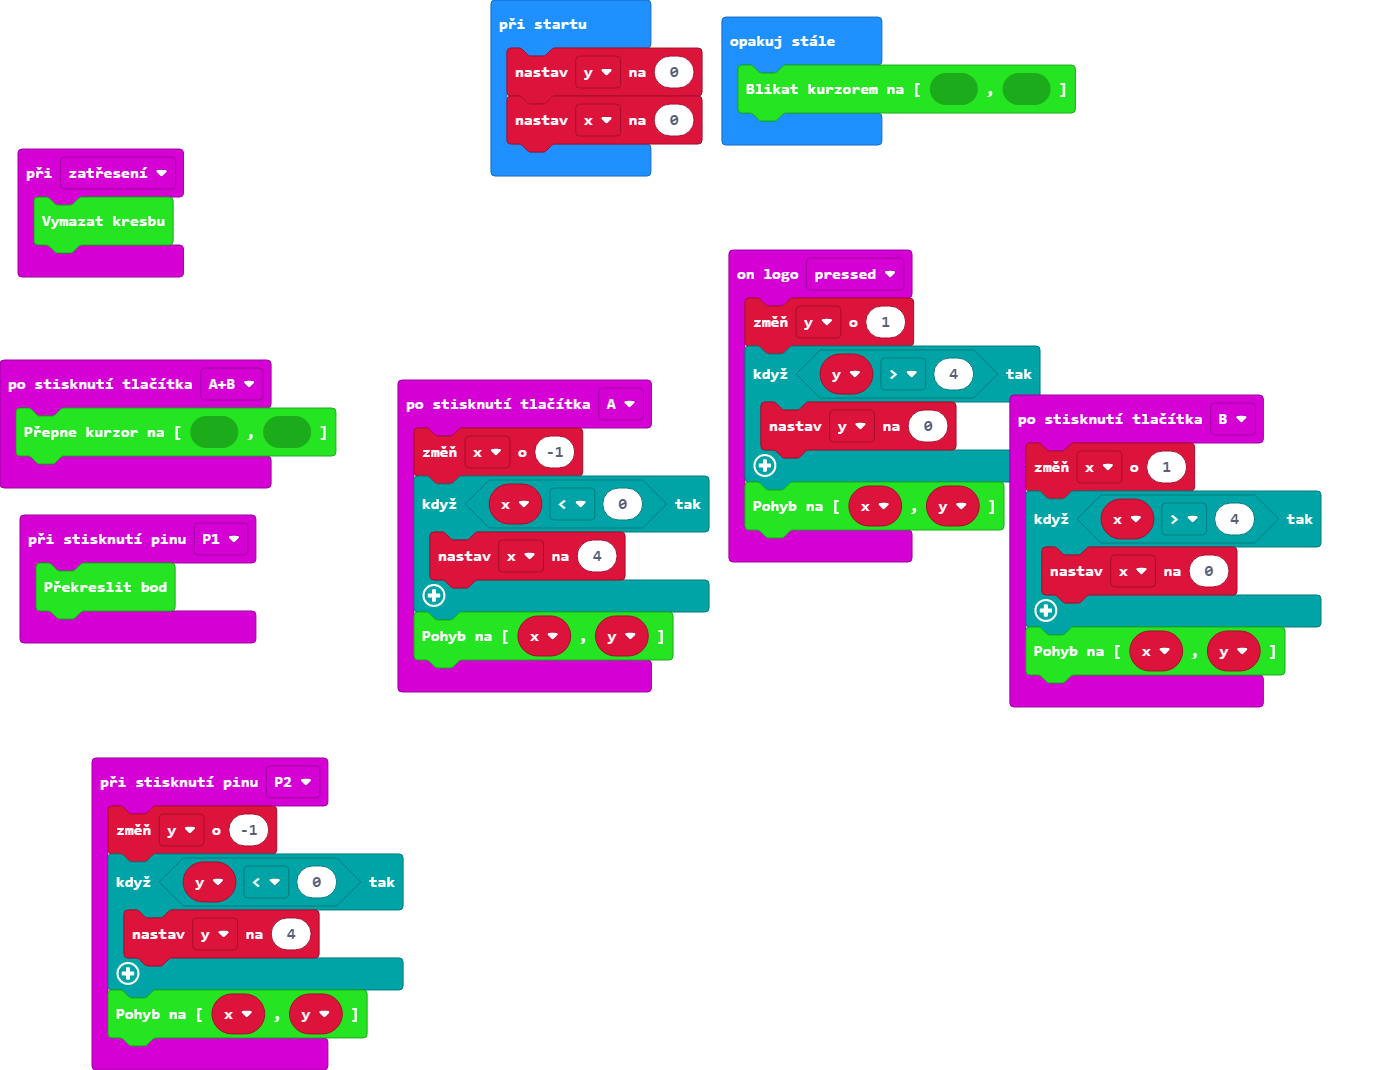
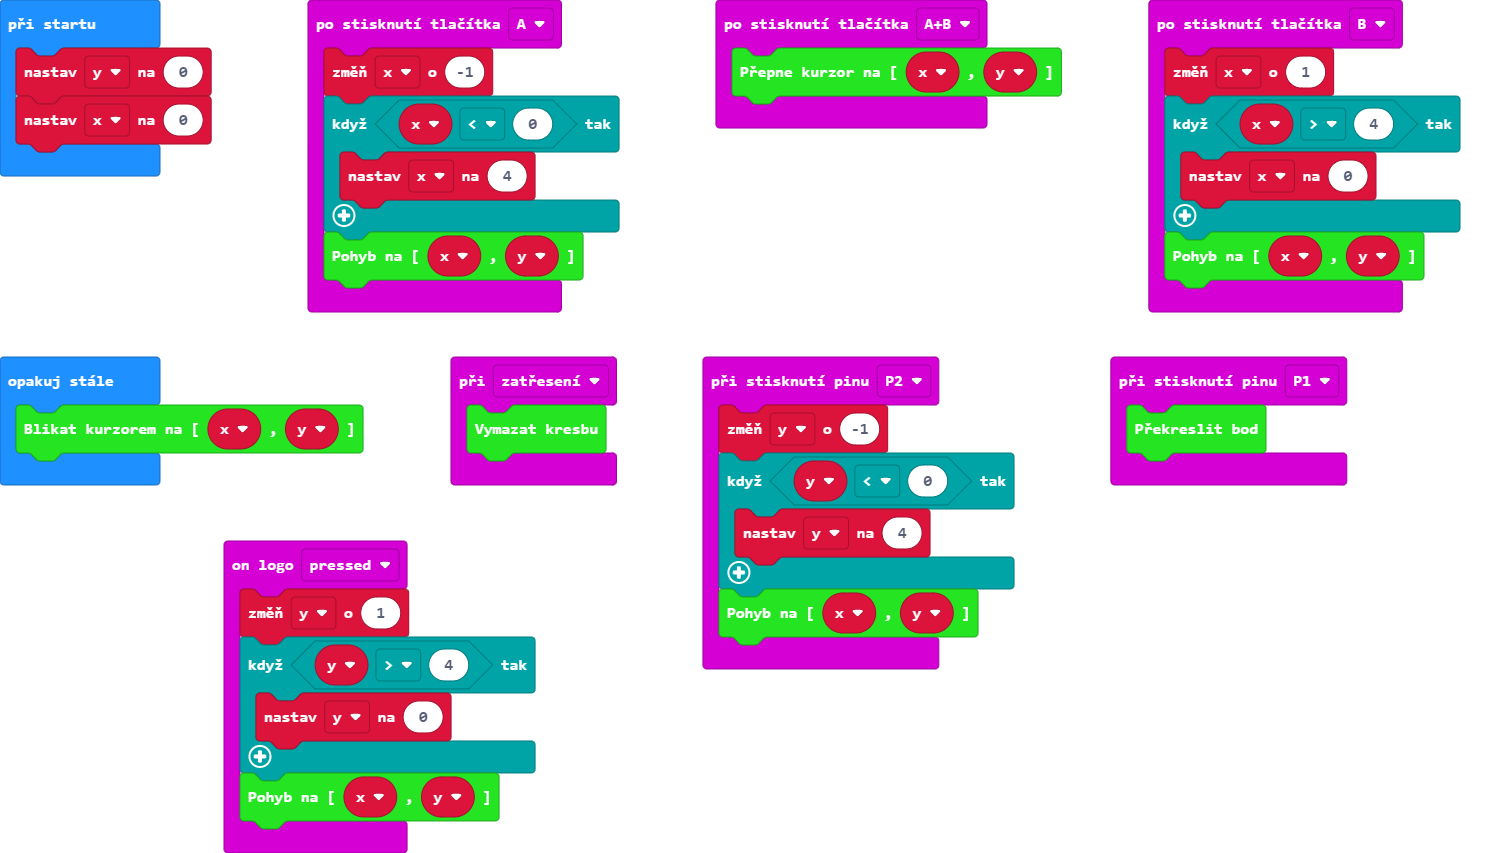
Aktualizovat pxt.json, main.blocks, main.ts, drawing.ts

diff --git a/drawing.ts b/drawing.ts
@@ -7,13 +7,13 @@
 /**
  * Custom blocks
  */
-//% weight=100 color=#25E422 icon="\uf1fc"
+//% weight=100 color=#25E422 icon="\uf1fc" block="Malování"
 namespace Malovani {
-    let stateBeforeArrive = false
-    let showCursor = false
-    showCursor = true
-    let privateX = 0 
-    let privateY = 0
+    let predchoziStav = false
+    let jeVidetKurzor = false
+    jeVidetKurzor = true
+    let privatniX = 0 
+    let privatniY = 0
 
 
 
@@ -23,8 +23,8 @@ namespace Malovani {
     //% block="Překreslit bod"
 
     export function prekreslit(): void {
-        if(showCursor) {
-            stateBeforeArrive = !(stateBeforeArrive)
+        if (jeVidetKurzor) {
+            predchoziStav = !(predchoziStav)
         }
     }
 
@@ -41,37 +41,37 @@ namespace Malovani {
         . . . . .
         . . . . .
         `)
-        stateBeforeArrive = false
+        predchoziStav = false
     }
 
     /**
     * Přepne kurzor na zvolené souřadnici
-    * @newX x
-    * @newY y
+    * @noveX Zvolená souřadnice
+    * @noveY Zvolená souřadnice
     */
-    //% block="Přepne kurzor na [%x, %y]"
+    //% block="Přepne kurzor na [%noveX, %noveY]"
 
-    export function prepnoutKurzor(newX: number, newY: number): void {
-        showCursor = !(showCursor)
-        if (stateBeforeArrive) {
-            led.plot(newX, 4 - newY)
+    export function prepnoutKurzor(noveX: number, noveY: number): void {
+        jeVidetKurzor = !(jeVidetKurzor)
+        if (predchoziStav) {
+            led.plot(noveX, 4 - noveY)
         } else {
-            led.unplot(newX, 4 - newY)
+            led.unplot(noveX, 4 - noveY)
         }
     }
 
     /**
     * Blikne kurzorem na zvolené souřadnici
-    * @newX x
-    * @newY y
+    * @noveX Zvolená souřadnice
+    * @noveY Zvolená souřadnice
     */
-    //% block="Blikat kurzorem na [%x, %y]"
+    //% block="Blikat kurzorem na [%noveX, %noveY]"
 
-    export function blikaniKurzoru(newX: number, newY: number): void {
-            privateX = newX; //zde nastavuji při každém „bliknutí" hodnoty, protože se tato metoda provede jako první a já si někde musím získat výchozí hodnotu x a y před tím, než poprvné pohnu s kurzorem...nic lepšího mě nenapdalo
-            privateY = newY; 
-        if (showCursor) {
-            led.toggle(newX, 4 - newY)
+    export function blikaniKurzoru(noveX: number, noveY: number): void {
+        privatniX = noveX;
+        privatniY = noveY;
+        if (jeVidetKurzor) {
+            led.toggle(noveX, 4 - noveY)
             basic.pause(100)
 
         }
@@ -79,19 +79,20 @@ namespace Malovani {
 
     /**
     * Pohne kurzorem na zvolené souřadnice
-    * @newX x
-    * @newY y
+    * @noveX Zvolená souřadnice
+    * @noveY Zvolená souřadnice
     */
-    //% block="Pohyb na [%x, %y]"
-    export function pohyb(newX: number, newY: number): void {
-            if (stateBeforeArrive) {
-                led.plot(privateX, 4 - privateY)
+    //% block="Pohyb na [%noveX, %noveY]"
+    export function pohyb(noveX: number, noveY: number): void {
+        serial.writeLine("sdf")
+        if (predchoziStav) {
+            led.plot(privatniX, 4 - privatniY)
             } else {
-                led.unplot(privateX, 4 - privateY)
+            led.unplot(privatniX, 4 - privatniY)
             }
-            privateX = newX
-            privateY = newY            
-            stateBeforeArrive = led.point(privateX, 4 - privateY)
+        privatniX = noveX
+        privatniY = noveY
+        predchoziStav = led.point(privatniX, 4 - privatniY)
     }
 
 

diff --git a/main.ts b/main.ts
@@ -13,7 +13,7 @@ input.onPinPressed(TouchPin.P2, function () {
     Malovani.pohyb(x, y)
 })
 input.onButtonPressed(Button.AB, function () {
-    Malovani.prepnoutKurzor(0, 0)
+    Malovani.prepnoutKurzor(x, y)
 })
 input.onButtonPressed(Button.B, function () {
     x += 1
@@ -40,5 +40,5 @@ let y = 0
 y = 0
 x = 0
 basic.forever(function () {
-    Malovani.blikaniKurzoru(0, 0)
+    Malovani.blikaniKurzoru(x, y)
 })
